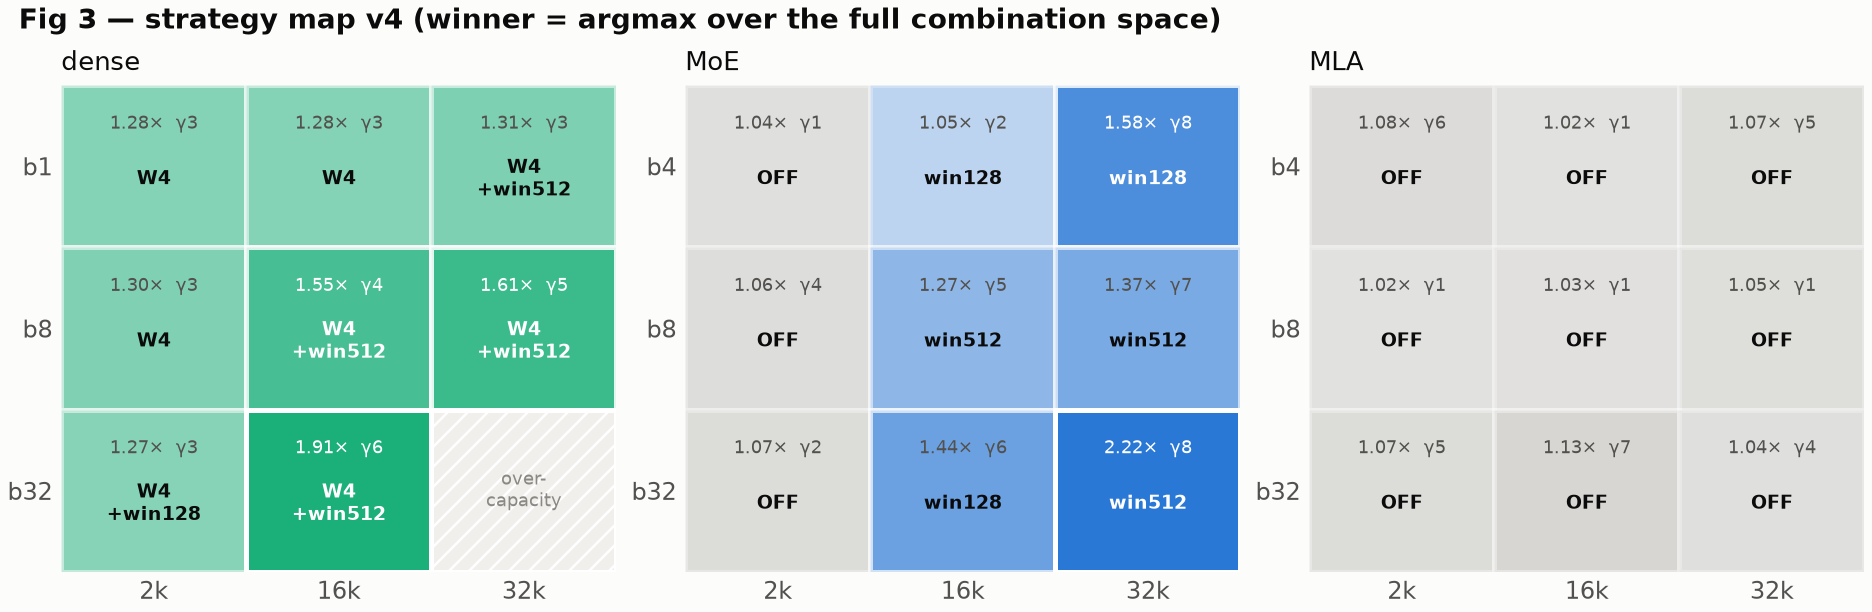
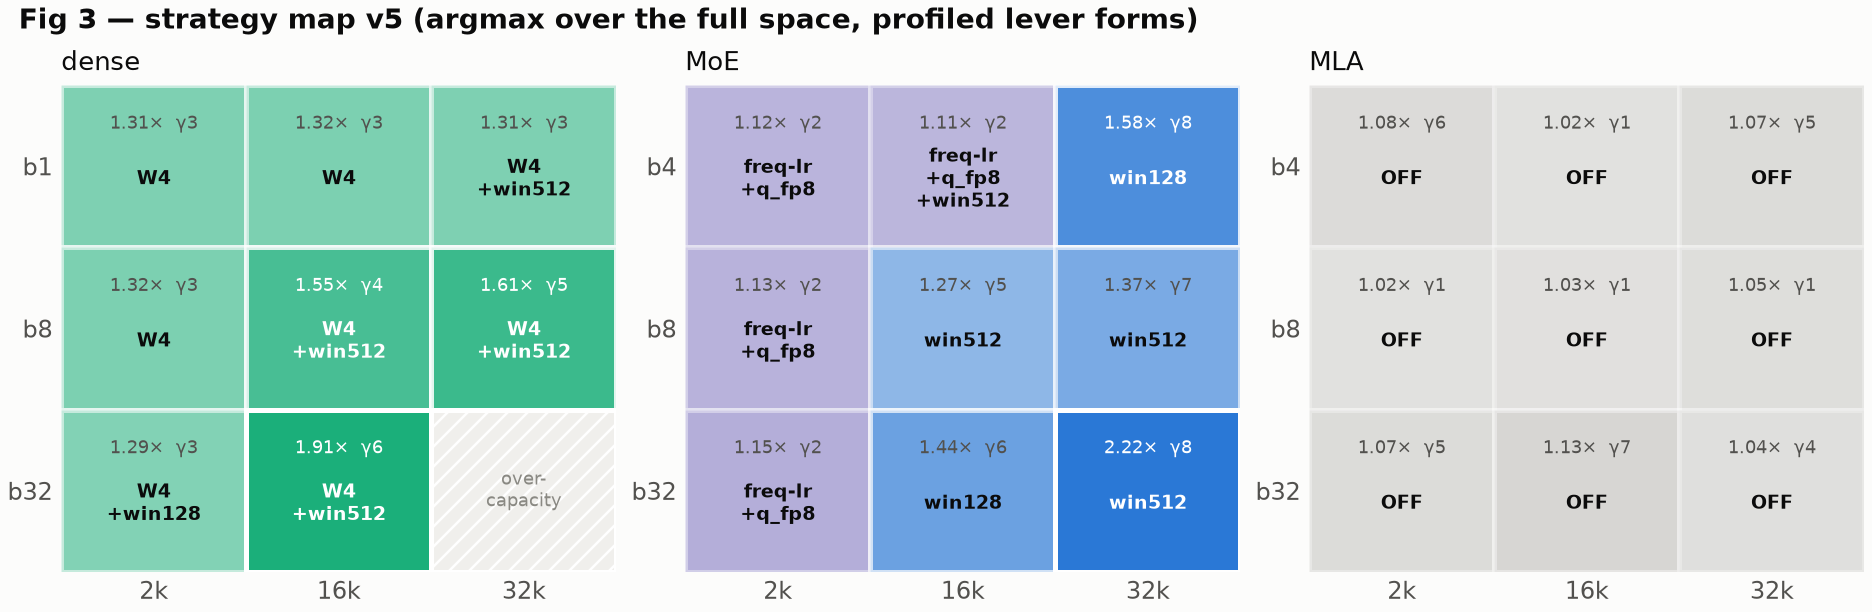
[W7][79] paper folds: Phase 83 -> C6, sec5.4, sec7.6, sec8.6, sec9, outline, fig3=v5
sec5.4 profiled lever forms (naive-instantiation check: freq-experts,
placement-not-contiguity, flat MoE profile, GPTQ ceiling; the
architecture-split law extends F5 to lever FORMS). sec7.6 map v5 (4
flips, provenance discipline). sec8.6 the realization ladder as the
execution-boundary exhibit (delivered flip at b4, each gap attributed by
the paper's own laws). sec1 C6; sec9 profiled-flips limitation incl.
routing-drift monitoring burden. fig3 regenerated to v5 (freq-lr band in
local-route violet; dense values calibrated).

diff --git a/research/79_paper/scripts/make_figures.py b/research/79_paper/scripts/make_figures.py
@@ -110,17 +110,18 @@ def fig1():
 
 # ---------------------------------------------------------------- fig3: strategy map v4
 V4 = {  # (group,(b,ck)): (winner, speedup, gamma)  -- strategy_map_v4.md
-    ("dense", (1, 2)): ("q_int4", 1.28, 3), ("dense", (1, 16)): ("q_int4", 1.28, 3),
+    ("dense", (1, 2)): ("q_int4", 1.31, 3), ("dense", (1, 16)): ("q_int4", 1.32, 3),
     ("dense", (1, 32)): ("q_int4+win512", 1.31, 3),
-    ("dense", (8, 2)): ("q_int4", 1.30, 3), ("dense", (8, 16)): ("q_int4+win512", 1.55, 4),
+    ("dense", (8, 2)): ("q_int4", 1.32, 3), ("dense", (8, 16)): ("q_int4+win512", 1.55, 4),
     ("dense", (8, 32)): ("q_int4+win512", 1.61, 5),
-    ("dense", (32, 2)): ("q_int4+win128", 1.27, 3),
+    ("dense", (32, 2)): ("q_int4+win128", 1.29, 3),
     ("dense", (32, 16)): ("q_int4+win512", 1.91, 6), ("dense", (32, 32)): None,
-    ("moe", (4, 2)): ("OFF", 1.04, 1), ("moe", (4, 16)): ("win128", 1.05, 2),
+    # v5 (Phase 83): the 2k band + b4/16k flip to profiled expert selection
+    ("moe", (4, 2)): ("flr50+q_fp8", 1.12, 2), ("moe", (4, 16)): ("flr50+q_fp8+win512", 1.11, 2),
     ("moe", (4, 32)): ("win128", 1.58, 8),
-    ("moe", (8, 2)): ("OFF", 1.06, 4), ("moe", (8, 16)): ("win512", 1.27, 5),
+    ("moe", (8, 2)): ("flr50+q_fp8", 1.13, 2), ("moe", (8, 16)): ("win512", 1.27, 5),
     ("moe", (8, 32)): ("win512", 1.37, 7),
-    ("moe", (32, 2)): ("OFF", 1.07, 2), ("moe", (32, 16)): ("win128", 1.44, 6),
+    ("moe", (32, 2)): ("flr50+q_fp8", 1.15, 2), ("moe", (32, 16)): ("win128", 1.44, 6),
     ("moe", (32, 32)): ("win512", 2.22, 8),
     ("mla", (4, 2)): ("OFF", 1.08, 6), ("mla", (4, 16)): ("OFF", 1.02, 1),
     ("mla", (4, 32)): ("OFF", 1.07, 5),
@@ -130,7 +131,7 @@ V4 = {  # (group,(b,ck)): (winner, speedup, gamma)  -- strategy_map_v4.md
     ("mla", (32, 32)): ("OFF", 1.04, 4),
 }
 FAM = {"q_int4": "weight-quant", "q_fp8": "weight-quant", "win512": "window",
-       "win128": "window", "OFF": "none"}
+       "win128": "window", "flr50": "local-route", "OFF": "none"}
 
 
 def fig3():
@@ -153,7 +154,8 @@ def fig3():
                 base = C[fam]
                 ax.add_patch(Rectangle((j, i), 1, 1, fc=base, alpha=shade,
                                        ec="white", lw=2))
-                lbl = win.replace("q_int4", "W4").replace("+", "\n+")
+                lbl = (win.replace("q_int4", "W4").replace("flr50", "freq-lr")
+                       .replace("+", "\n+"))
                 dark = sp > 1.5
                 ax.text(j + .5, i + .58, lbl, ha="center", va="center",
                         fontsize=7.5, fontweight="bold",
@@ -169,7 +171,7 @@ def fig3():
         ax.tick_params(length=0)
         for s in ax.spines.values():
             s.set_visible(False)
-    fig.suptitle("Fig 3 — strategy map v4 (winner = argmax over the full combination space)",
+    fig.suptitle("Fig 3 — strategy map v5 (argmax over the full space, profiled lever forms)",
                  x=0.01, ha="left", fontsize=11, fontweight="bold", color=INK)
     fig.savefig(FIG / "fig3_strategy_map.png")
     plt.close(fig)

diff --git a/research/79_paper/sections/sec5_acceptance_map.md b/research/79_paper/sections/sec5_acceptance_map.md
@@ -116,3 +116,32 @@ for every lever except MLA-window (±0.01–0.03 across 2k→32k), so one β
 column per (lever, architecture) — ~1 GPU-hour offline, anchor-gated —
 prices the whole acceptance side of the map. Combined with §4's R surface,
 the selector of §6 needs no end-to-end sweeps at all.
+
+## 5.4 Profiled lever forms: the naive-instantiation check
+
+Every arm above is a lever's NAIVE form — contiguous middle-block skip,
+RTN quantization, a contiguous expert shard for local routing. The
+single-lever literature (KnapSpec's layer knapsack; GPTQ/AWQ) shows
+offline profiling recovers accuracy at equal cost, so we re-measured the
+levers' PROFILED forms on the same paired references (Phase 83):
+
+| lever, profiled form | naive β | profiled β | mechanism measured |
+|---|---|---|---|
+| expert selection, top-frequency sets (MoE) | .826 / .693 (50/25%) | **.953 / .823** | top-half experts carry 96.3% of routing mass |
+| layer sets, iterative greedy (dense, budget 3/7) | .448 / .09 (contiguous middle) | **.869 / .557** | redundancy concentrated in EARLY blocks |
+| layer sets (MoE, budget 6/48) | ~.70 | .742 | leave-one-out profile FLAT (.946–.959) |
+| int4, GPTQ-calibrated (dense) | .924 (RTN) | .9427 | calibration near the lever's ceiling |
+
+Three structural findings. **Placement, not contiguity**: dense iterative
+greedy picks a nearly contiguous EARLY block — the middle-block
+convention, not contiguity itself, is what the naive skip arm got wrong;
+early layers drop in blocks almost freely. **The architecture-split law**:
+profiling headroom lives where the architecture's redundancy lives —
+layer placement pays on dense (+0.42 at equal budget) and almost nothing
+on MoE (+0.04, flat profile: each layer's contribution is already diluted
+across 128 experts), while expert selection pays on MoE (+0.13) and does
+not exist elsewhere. Even the profitable profiling STRATEGY fails to port
+across architectures, extending F5 from lever values to lever forms.
+**Frequency-selected quarter ≈ contiguous half**: flr25 (0.823) matches
+naive lr50 (0.826) at half the resident memory — a free 2× on the
+residency axis. Selection consequences in §7.6; delivery in §8.6.

diff --git a/research/79_paper/sections/sec8_floor_free.md b/research/79_paper/sections/sec8_floor_free.md
@@ -102,3 +102,31 @@ byte-cheap, and a constant-geometry chain removes the floor — after
 which the selector may rank on raw τ_β(γ)/(γR+1). Remaining headroom is
 known and bounded: verify still idles 31% of its forward, and step-0's
 residual over a pure chain step is the last ~6% to the 1.98× ceiling.
+
+## 8.6 The execution boundary, generalized: a delivered flip and its realization ladder
+
+§7.6's flipped cells are where selection and execution meet, and we walk
+one through to metal. The frequency-profiled expert draft admits several
+REALIZATIONS, and the ladder separates the lever from its execution:
+
+| realization (MoE 2k band, γ=2) | b4 | b8 | b32 | accept |
+|---|---|---|---|---|
+| naive contiguous shard (EP-local) | 0.55× | — | — | 2.17 |
+| fp8 full replica + freq mask | 0.93× | — | 0.75× | 2.85 |
+| **bf16 partial replica (ships with this paper)** | **1.03×** | 0.63× | 0.64× | **2.88** |
+
+The acceptance flip transfers EXACTLY (offline β 0.953 → accept
+2.81–2.88 everywhere — the profiling surface loses nothing at the
+metal), and each throughput gap is attributable by the paper's own laws:
+the bf16 full replica does not fit (73.25 GiB/rank — realization is a
+memory problem first); the fp8 replica pays fp8's small-M κ (§6's
+per-kernel lesson, biting our own realization); the partial replica —
+per-layer frequency sets installed as the draft's expert_map, so the
+loader skips non-resident experts (46.25 GiB measured) — removes κ and
+DELIVERS the b4 flip at 1.03×, the first naive-map OFF cell measured
+above baseline. At b8/b32 the 2k verify is too cheap to amortize the
+draft chain (needed cycle 27 ms, measured 44 ms): delivery(γ,R) again,
+now with the boundary measured inside one band. The division of labor is
+the section's thesis in one exhibit: profiling changes what the map says;
+execution decides what the deployment collects; and the gaps between
+them are quantified, named, and lever-external.

diff --git a/research/79_paper/outline.md b/research/79_paper/outline.md
@@ -47,6 +47,14 @@ selector + honest negative regions), not a single-method paper.
      rejected tail; window-amplified, −0.55 accept → fixed). Result:
      **1.91× measured at dense b32/16k = the registered roofline, delivery
      ≈ 100%**; same stack gives the MoE window cell +12% (§8).
+  C6 Profiled levers (Phase 83): naive instantiation gets 4 MoE cells
+     wrong — frequency-profiled expert selection (+0.13 β, routing-skew
+     mechanism) flips the short-ctx band, one flip delivered e2e (1.03×,
+     partial-replica loader ships); the architecture-split law (profiling
+     headroom lives where the redundancy lives; even profiling STRATEGY
+     is architecture-specific); placement-not-contiguity on dense skip;
+     GPTQ +0.019 flips nothing. Map v5 = the profiled map with e2e
+     provenance per flip.
 - Anti-contribution framing (honesty as a feature): three map regions say
   "turn it OFF"; the delivery discount that gated the composed frontier is
   fully attributed (launch floor) and fully recovered (C5).
@@ -226,6 +234,8 @@ selector + honest negative regions), not a single-method paper.
 | step-0 law (F12) | 81 E2b isolation ladder (spsd/spsd2/spw0/spw0sd/spsdfix) | results_floor.md, logs/e1_* |
 | 1.91× headline (F13) | 81 E3 (7 cells, parallel) | data/e3/, results_floor.md |
 | MoE generality (F14) | 81 MoE check (noreg + fixed arms) | data/moe_check/ |
+| profiled levers / split law (C6) | 83 E1/E2 (freq experts, iter-greedy, GPTQ) | 83/results_profiled.md, freq_lr.csv, iter_greedy*.csv |
+| map v5 flips + realization ladder | 83 E2b/E2c/E4 | 83/data/strategy_map_v5.md, e2e_flip/ |
 
 ## Figures plan
 

diff --git a/research/79_paper/sections/sec9_discussion.md b/research/79_paper/sections/sec9_discussion.md
@@ -31,6 +31,18 @@ q_fp8 β is weight-only — a −2.1 accept gap on MLA at K=5. A weight-only
 runtime draft option is plumbing, not research, but until it exists the
 map's q_fp8 column prices a config the harness cannot yet run exactly.
 
+**Profiled flips: delivery boundary measured, not closed.** Of the four
+map-v5 flips (§7.6), one is delivered (b4/2k, 1.03× — margins ±0.10, a
+parity-to-modest win); the 2k band's higher batches are chain-blocked
+(0.63–0.64×, needed cycle 27 ms vs measured 44 ms). The acceptance side
+transfers exactly everywhere (2.81–2.88 vs offline 0.953), so what
+remains is the windowless-MoE instance of the §8 execution program plus
+the partial replica's memory rent (~half the expert bytes per rank) —
+both quantified. Profiled sets also inherit a monitoring burden a naive
+shard does not: routing frequencies can drift with workload; the
+distribution-robustness check (§5.2) bounds this for our two banks, not
+for all traffic.
+
 **The deferred fabric.** The comm-bound tier (PCIe/multi-node) is where
 the refined local-route law predicts its largest wins and where the MoE
 comm-free triple (β 0.82–0.83, assembled and measured) is parked. The

diff --git a/research/79_paper/sections/sec7_composition.md b/research/79_paper/sections/sec7_composition.md
@@ -150,3 +150,18 @@ holds 0.448 — though even doubled, skip flips no winner on this
 architecture (§6). The unified statement: profiles nominate, measurements
 confirm, and the confirmation budget is 1–2 per decision at every level
 of the hierarchy (lever, combination, set, cell).
+
+## 7.6 Map v5: profiled levers change what the map says
+
+Re-running the exhaustive search with the profiled columns of §5.4 flips
+FOUR cells — all on MoE, all driven by frequency-profiled expert
+selection: the short-context band (b4/b8/b32 at 2k) moves from
+OFF/marginal to flr50+q_fp8 (1.12–1.15× priced), and b4/16k composes
+flr50+q_fp8+win512 (1.11×). Dense and MLA winners are unchanged
+(calibration lifts dense values +0.02–0.04× without moving any argmax) —
+the architecture-split law carried through search: the only
+decision-changing profiled lever is the one aligned with the
+architecture's redundancy. Each flipped cell carries its e2e provenance
+in the map (delivered / chain-blocked, §8.6) — a profiled winner enters
+the map with a measured β (§7.5's rule) and exits to deployment only
+through a realization whose R is also measured.

diff --git a/research/79_paper/sections/sec1_intro.md b/research/79_paper/sections/sec1_intro.md
@@ -52,6 +52,16 @@ Contributions, each with its number:
   2.77× at 32k context**, +12% on MoE with the identical stack, and an
   out-of-sample diagnosis of an MLA backend failure the laws were not
   derived from.
+- **C6 — profiled levers** (§5.4, §7.6, §8.6): offline profiling changes
+  what the map says. Frequency-profiled expert selection (+0.13 β from
+  measured routing skew) flips four MoE cells, one delivered end to end
+  (1.03×) through a partial-replica loader that ships with the paper;
+  layer-set placement doubles dense skip β (the middle-block convention,
+  not contiguity, is the naive arm's error); calibration polishes values
+  without moving argmaxes. The architecture-split law: the
+  decision-changing profiled lever is the one aligned with where the
+  architecture's redundancy lives — and even profiling STRATEGY fails to
+  port across architectures.
 
 The anti-contributions are load-bearing: three map regions say OFF (and
 the exhaustive search plus a measured challenger say it stays OFF); the
